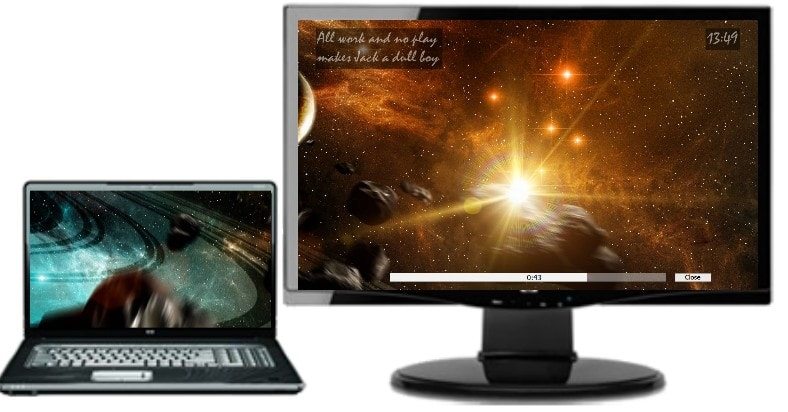
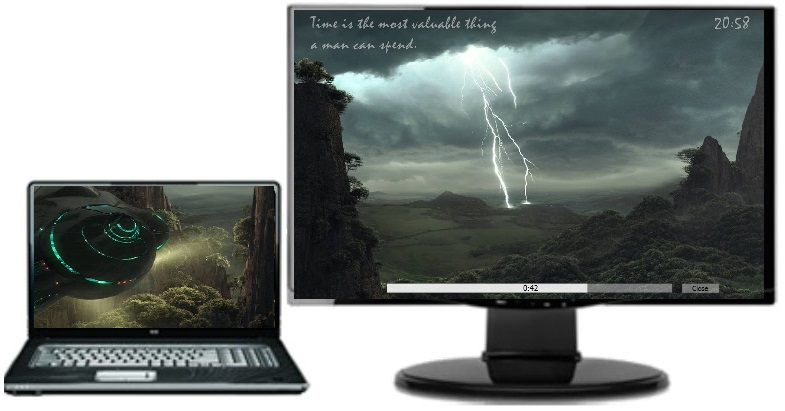
Update Eyes' Thanks page and screenshots for 1.3.5
eyes-thanks 1.3.2

eyes' thanks version 1.3.5

diff --git a/lightbox2/css/images.min.css b/lightbox2/css/images.min.css
@@ -1,1 +1,1 @@
-.lightbox-image-link,.lightbox-image-link-left,.lightbox-image-link-right{display:inline-block;padding:2px;margin:0 .5rem .5rem;line-height:0;border-radius:4px}.lightbox-image-link{background-color:#fff;transition:background-color .5s ease-out}.lightbox-image-link:hover{background-color:#4ae;transition:none}.lightbox-image{border-radius:4px}.lightbox-image-link-left{background-color:#fff;transition:background-color .5s ease-out;float:left}.lightbox-image-link-left:hover{background-color:#4ae;transition:none}.lightbox-image-link-right{background-color:#fff;transition:background-color .5s ease-out;float:right}.lightbox-image-link-right:hover{background-color:#4ae;transition:none}
+.lightbox-image-link,.lightbox-image-link-left,.lightbox-image-link-right{display:inline-block;padding:2px;margin:0 .5rem .5rem;line-height:0;border-radius:4px}.lightbox-image-link{background-color:#fff;transition:background-color .5s ease-out}.lightbox-image-link:hover{background-color:#4ae;transition:none}.lightbox-image{border-radius:4px}.lightbox-image-left{display:inline-block;padding:2px;margin:0 .5rem .5rem;border-radius:4px;float:left}.lightbox-image-right{display:inline-block;padding:2px;margin:0 .5rem .5rem;border-radius:4px;float:right}.lightbox-image-link-left{background-color:#fff;transition:background-color .5s ease-out;float:left}.lightbox-image-link-left:hover{background-color:#4ae;transition:none}.lightbox-image-link-right{background-color:#fff;transition:background-color .5s ease-out;float:right}.lightbox-image-link-right:hover{background-color:#4ae;transition:none}

diff --git a/lightbox2/css/images.css b/lightbox2/css/images.css
@@ -20,6 +20,21 @@
 .lightbox-image {
   border-radius: 4px; }
 
+.lightbox-image-left {
+  display: inline-block;
+  padding: 2px;
+  margin: 0 0.5rem 0.5rem 0.5rem;
+  border-radius: 4px;
+  float:left;
+}
+
+.lightbox-image-right {
+  display: inline-block;
+  padding: 2px;
+  margin: 0 0.5rem 0.5rem 0.5rem;
+  border-radius: 4px;
+  float:right;
+}
 
 .lightbox-image-link-left {
   display: inline-block;
@@ -35,9 +50,7 @@
   background-color: #4ae;
   transition: none; }
 
-
-
-  .lightbox-image-link-right {
+.lightbox-image-link-right {
   display: inline-block;
   padding: 2px;
   margin: 0 0.5rem 0.5rem 0.5rem;

diff --git a/css/other.css b/css/other.css
@@ -1,19 +1,5 @@
-/*content: url(http://upload.wikimedia.org/wikipedia/commons/6/64/Icon_External_Link.png);*/
-
-/*a[href^="//"]:after,
-a[href^="http://"]:after,
-a[href^="https://"]:after {
-
-  content: url(/wiki-el.png);
-  margin: 0 0 0 0px;
+small {
+  /*line-height: 1;*/
+  display:inline-block;
+;
 }
-
-a[href*="localhost"]:after {
-  content: '';
-  margin: 0;
-}
-
-a[href*="yalov"]:after {
-  content: '';
-  margin: 0;
-}*/

diff --git a/css/other.min.css b/css/other.min.css
@@ -1,0 +1,1 @@
+small{display:inline-block}

diff --git a/_collection/eyes-thanks.md b/_collection/eyes-thanks.md
@@ -1,10 +1,10 @@
 ---
 layout: post
-title: "Eyes' Thanks"
+title: "Eyes’ Thanks"
 
 post_on_sidebar: true
 
-date: 2017-07-09
+date: 2017-07-22
 tag:
   - qt
   - С++
@@ -14,54 +14,86 @@ category:
 
 sidebar: true
 
-version: 1.2.0
+version: 1.3.5
 
 
 
-summary: "<a class=lightbox-image-link-left href='/images/eyesthanks-2monitors.jpg' data-lightbox='EyesThanks' title='fullscreen image at different-size monitors system'><img class='lightbox-image' style= 'width: 10rem;' src='/images/eyesthanks-2monitors-prev.jpg' alt='fullscreen image at different-size monitors system'></a>
+summary: "<a class=lightbox-image-link-left href='/images/eyesthanks-2monitors.jpg' data-lightbox='EyesThanks' title='fullscreen image at different-size monitors system'>
+<img class='lightbox-image' style= 'width: 10rem;' src='/images/eyesthanks-2monitors.jpg' alt='fullscreen image at different-size monitors system'></a>
 The app frequently alerts you to take rest breaks by showing fullscreen image (random image from the folder). It supports multiple monitors system and wide image for all monitors."
 
 #lightbox2:
 imgfolder: /images/
 images:
   - name:  eyesthanks-2monitors.jpg
-    thumb: eyesthanks-2monitors-prev.jpg
     text:  Notebook + monitor
 
   - name:  eyesthanks-3monitors.jpg
     thumb: eyesthanks-3monitors-prev.jpg
     text:  3 monitors
 
-  - name:  eyesthanks-dialog-en.png
-    text:  English setting dialog
+  - name:  eyesthanks-dialog-en1.png
+    text:  setting dialog tab1 (English)
 
-  - name:  eyesthanks-dialog-ru.png
-    text:  Russian setting dialog
+  - name:  eyesthanks-dialog-en2.png
+    text:  setting dialog tab2 (English)
 
+  #- name:  eyesthanks-dialog-ru1.png
+  #  text:  setting dialog tab1 (Russian)
+
+  #- name:  eyesthanks-dialog-ru2.png
+  #  text:  setting dialog tab2 (Russian)
+
+  - name:  eyesthanks-tray-en.png
+    text:  tray (English)
+
+  #- name:  eyesthanks-tray-ru.png
+  #  text:  tray (Russian)
 ---
 
+Staring at a computer screen for hours is not good for your eyes, so Eyes’ Thanks protect them: the app displays a full-screen image on your desktop at regular intervals,
+along with an optional message, reminding you to take a break.
 
-It’s the software that protect your eyes: the app frequently alerts you to take rest breaks by showing fullscreen image (random image from the folder).
-
-It supports **multiple monitors system** and wide image for all monitors.
-
-<br>
-
-### Download Eyes' Thanks v{{page.version}} for Windows 7–10 (x86, portable) — [.7z](https://github.com/yalov/eyes-thanks/releases/download/{{page.version}}/EyesThanks_v{{page.version}}.7z)
-
-<br>
-#### tips:
-
-* You can use `delete` key for delete displayed image from your images folder.
-* Middle click to notification area icon — pause timer.
-* Use “alternative image folder”, if you have two different-ratio sets of monitors.  
-  <small>For example if sometimes you disconnect your FullHD notebook from your FullHD monitor, put 2FHD (3860×1080) pictures to “pictures folder” and FullHD (1920×1080)
-  pictures to “alternative pictures folder”.  
-  So, a laptop is connected to a monitor — the app uses 2FHD folder, a laptop isn’t connected anywhere — the app uses FullHD folder.</small>
-
-Screenshots:
 
 {% include lightbox.html height='5rem'%}
 
-------
-*images from screenshots are not included to archive.
+<br>
+
+### Download Eyes’ Thanks v{{page.version}} for Windows 7–10 (x86, portable) — [.7z](https://github.com/yalov/eyes-thanks/releases/download/{{page.version}}/EyesThanks_v{{page.version}}.7z)
+See [changelog](https://github.com/yalov/eyes-thanks/releases).
+<br>
+
+#### Background images
+While some cool backgrounds can be generated on-the-fly, you can provide a more extensive gallery stored locally.
+One of the images in the user-defined folder will be displayed in full-screen mode for the configured duration,
+but you can cancel the break if you just can’t afford to interrupt your current activity.
+Also you can delete displayed image from folder with `delete` key on the keyboard.
+
+#### Multiple monitors system
+It supports multiple monitors system, making it possible to display wide pictures across all your monitors.
+
+#### Works with any monitor setup
+If you sometimes switch between two displays (or even two sets of many displays) with different aspect ratios,
+you can set up an alternative pictures folder that the program should use whenever aspect ratios changed.  
+<small><small>For example if sometimes you disconnect your FullHD notebook from your FullHD monitor, put 2FHD (3860×1080) pictures to “pictures folder” and FullHD (1920×1080)
+pictures to “alternative pictures folder”.  
+So, a laptop is connected to a monitor — the app uses 2FHD folder, a laptop isn’t connected anywhere — the app uses FullHD folder.</small></small>
+
+#### Unobtrusive, portable break reminder
+The application runs in the system tray, and you can pause the timer easily by just middle-clicking the notification area icon.
+It is also worth mentioning that the program does not require installation, and user configurations are only stored in the root folder, making it possible to use the app on the go.
+
+
+<br>
+
+<small><small>
+[<img class='lightbox-image-right' style= 'width: 4rem;' src='/images/gpl3.svg' alt='GPLv3'>](https://www.gnu.org/licenses/gpl-3.0.html)
+This program is free software: you can redistribute it and/or modify it under the terms of the GNU General Public License
+as published by the Free Software Foundation, either version 3 of the License, or (at your option) any later version.
+</small></small>
+<small><small>
+[<img class='lightbox-image-right' style= 'width: 4rem;' src='/images/softpedia100free.png' alt='Softpedia Labs 100% Free Mark'>](http://www.softpedia.com/get/Desktop-Enhancements/Clocks-Time-Management/Eyes-Thanks.shtml#status)
+This product was tested in the Softpedia Labs. Softpedia [guarantees](http://www.softpedia.com/get/Desktop-Enhancements/Clocks-Time-Management/Eyes-Thanks.shtml#status)
+that Eyes’ Thanks is 100% Free, which means it does not contain any form of malware, including but not limited to: spyware, viruses, trojans and backdoors.
+This software product was tested thoroughly and was found absolutely clean; therefore, it can be installed with no concern by any computer user.
+</small></small>
